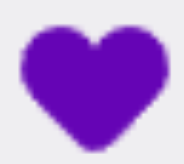
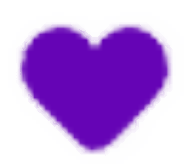
cats page html only + hagat bayza

Changed region(s): [[0.0815, 0.122, 0.9239, 0.9451]]

diff --git a/index.html b/index.html
@@ -1,137 +1,8 @@
 <!DOCTYPE html>
 <html>
+  <link rel="stylesheet" href="header.css">
     <style>
-    .right_header
-    {
-        padding-right: 0.5cm;
-    }
-    .left_header_adopt
-    {
-    color: #6504b5;
-    font-size: large;
-   display: inline;
-    }
-    /* styling search bar */
-    .search input[type=text]{
-    width: 100%;
-    height: 50px;
-    border-radius: 25px;
-    border: 2px solid #6504b5;
-    }
-    .search{
-        background-color:#6504b5;
-        background-image: url("https://www.petfinder.com/sites/default/files/styles/hero_image_667_235/public/images/content/667%20hero_0.jpg?itok=mwPI7hr1");
-        background-size: 100%;
-        border: none;
-        background-repeat: no-repeat;
-        padding: 7%;
-    }
-    .butt {
-        background-image: url("search-icon.png");
-        background-size: cover;
-        height:50px;
-        width:50px;   
-     }
-    .btn {
-        border: none;
-        background-repeat: no-repeat;
-        display: inline-block;
-        padding: 12px 16px;
-        position: absolute;
-        right: 30px;
-        cursor: pointer;
-      }
-      .btn .heart
-      {
-        display: inline;
-        position: absolute;
-        left: 110px;
-      }
-        .heart
-    {
-        display: inline;
-        border: none;
-        content: 300px;
-        padding: 0px 22px;
-        top:24px;
-        cursor: pointer;
-    }
-    .dropbtn {
-        background-image: url("menu-bar.png");
-        height: 27px;
-        width: 27px;
-        border: none;
-      }
       
-      
-    .dropdown {
-        position: relative;
-        display: inline-block;
-        top:15px;
-        right:16px;
-      }
-      .dropdown-content {
-        display: none;
-        position: absolute;
-        background-color: #f1f1f1;
-        min-width: 160px;
-        box-shadow: 0px 8px 16px 0px rgba(0,0,0,0.2);
-        z-index: 1;
-        margin:0px ;
-        right: 0px;
-        top: 40px;
-      }
-      
-      .dropdown-content a {
-        color: black;
-        padding: 12px 16px;
-        display: flex;
-        flex: column;
-        justify-items: end;
-      }
-      
-      .dropdown-content a:hover {background-color: #ddd;}
-      
-      .dropdown:hover .dropdown-content {display: block;}
-      
-      .dropdown:hover .dropbtn {background-color: #3e8e41;}
-      
-      .btn .dropdown{
-        background-image: url("menu-bar.png");
-        height: 27px;
-        width: 27px;
-        border: none;
-        left: 10px;
-        bottom: 0px;
-        top: 8px;
-        z-index: 1;
-      }
-      .btn-content {
-        display: none;
-        position: absolute;
-        background-color: #f9f9f9;
-        min-width: 160px;
-        box-shadow: 0px 8px 16px 0px rgba(0,0,0,0.2);
-        z-index: 1;
-        margin:0px ;
-        right: 0px;
-        top: 40px;
-      }
-      .btn-content a {
-        float: none;
-        color: black;
-        padding: 12px 20px;
-        text-decoration: none;
-        display: flex;
-        flex: column;
-        justify-items: end;
-      }
-      .btn:hover .btn-content {
-        display: block;
-      }
-      .btn-content a:hover{
-        background-color: aqua;
-      }
      .buttons
      {
         margin: 3em;
@@ -208,20 +79,11 @@
       .footer-nav p {
           text-align: center;
       }
-      .header
-      {
-        padding: 5px; 
-        width:100% ;
-         height:100%;
-         background-color:#efeef1; 
-        display: flex;
-         flex-direction: row;
-         justify-content: space-between;
-         align-items:space-between;
-      }
+     
     </style>
     <body>
-        <header class="header">
+        <header class="header" style="
+        background-color:#efeef1; ">
             <p class="left_header_adopt"> &nbsp &nbsp &nbsp Adopt</p>
            <button class="btn heart">
                 <a href="favourites.php"><img src="heart.png"></a>
@@ -235,18 +97,6 @@
                 </div>
             </div>
         </header>
-            <!--<div class="adj_header">
-                <button class="heart">
-            <img src="heart1.png"  width="42" height="40">
-                </button><!-- <img src="menu-bar.png" width="27" height="23">
-           <button class="adj_header dropbtn ">
-              </button>
-              <div class="adj_header-content">
-                <a href="#">My Animals</a>
-                <a href="#">Account</a>
-                <a href="#">Social Media</a>
-            </div>
-        </div>-->
         <!-- https://www.w3schools.com/howto/tryit.asp?filename=tryhow_js_topnav-->
         <div class="search">
             <center>

diff --git a/main.css b/main.css
@@ -1,0 +1,138 @@
+.header
+{
+  padding: 3px; 
+  width:100% ;
+   height:100%;
+  display: flex;
+   flex-direction: row;
+   justify-content: space-between;
+   align-items:space-between;
+   font-size: large;
+}
+.right_header
+{
+    padding-right: 0.5cm;
+}
+.left_header_adopt
+{
+    
+font-family:ink free;
+color: #6504b5;
+font-size: larger;
+display: inline;
+font-weight:bold;
+}
+/* styling search bar */
+.search input[type=text]{
+width: 100%;
+height: 50px;
+border-radius: 25px;
+border: 2px solid #6504b5;
+}
+.search{
+    background-color:#6504b5;
+    background-image: url("https://www.petfinder.com/sites/default/files/styles/hero_image_667_235/public/images/content/667%20hero_0.jpg?itok=mwPI7hr1");
+    background-size: 100%;
+    border: none;
+    background-repeat: no-repeat;
+    padding: 7%;
+}
+.butt {
+    background-image: url("search-icon.png");
+    background-size: cover;
+    height:50px;
+    width:50px;   
+ }
+.btn {
+    border: none;
+    background-repeat: no-repeat;
+    display: inline-block;
+    padding: 12px 16px;
+    position: absolute;
+    right: 30px;
+    cursor: pointer;
+  }
+  .btn .heart
+  {
+    display: inline;
+    position: absolute;
+    left: 110px;
+  }
+    .heart
+{
+    display: inline;
+    border: none;
+    content: 300px;
+    padding: 0px 22px;
+    top:27px;
+    cursor: pointer;
+}
+.dropbtn {
+    background-image: url("menu-bar.png");
+    height: 27px;
+    width: 27px;
+    border: none;
+  }
+  
+  
+.dropdown {
+    position: relative;
+    display: inline-block;
+    top:20px;
+    right:16px;
+  }
+  .dropdown-content {
+    display: none;
+    position: absolute;
+    background-color: #f1f1f1;
+    min-width: 160px;
+    box-shadow: 0px 8px 16px 0px rgba(0,0,0,0.2);
+    margin:0px ;
+    right: 0px;
+    top: 40px;
+    z-index: 1000;
+  }
+  
+  .dropdown-content a {
+    color: black;
+    padding: 12px 16px;
+    display: flex;
+    flex: column;
+    justify-items: end;
+    
+  }
+  
+  .dropdown-content a:hover {background-color: #ddd;}
+  
+  .dropdown:hover .dropdown-content {display: block;}
+  
+  .dropdown:hover .dropbtn {background-color: #3e8e41;}
+  .site-footer {
+    background-color: #6504b5;
+      text-align: center;
+      margin: 10px 0;
+  }
+  
+  /*Social Media Icons*/
+  .social-wrapper {
+      text-align: center;
+  }
+  
+  .social-wrapper ul li {
+      display: inline;
+      margin: 0 5px;
+      padding: 10px; /*spacing between icons*/
+  }
+  
+  .twitter-icon,
+  .facebook-icon,
+  .instagram-icon,
+  .youtube-icon{
+      margin-top: .625em;
+      width: 40px;
+      height: 40px; /* For IE8 and earlier */
+    border-radius: 25px;
+  }
+  .footer-nav p {
+      text-align: center;
+  }

diff --git a/cats.html b/cats.html
@@ -1,0 +1,75 @@
+<!DOCTYPE html>
+<html>
+<link rel="stylesheet" href="main.css">
+<style>
+    .wrapper
+    {  
+    display: grid;
+    grid-template-columns: 1fr 1fr;
+    grid-auto-columns: 1px;
+    border: none;
+    width: min(95%,70cm);
+    margin-inline: auto;
+    gap: 2em;
+    }
+    .button
+    {
+        height: 19em;
+        width: 17em;
+        border-radius: 2em;
+        overflow: hidden;
+    }
+    .button .img{
+        height: 70%;
+        width: auto;
+        display: block;
+        position:relative;
+        left: 5%;
+    }
+    .button:hover{
+        background-color: rgb(144, 138, 144);
+    }
+</style>
+<body>
+    <header class="header" style="background-color: white;">
+        <p class="left_header_adopt"> &nbsp &nbsp &nbsp Adopt</p>
+       <button class="btn heart">
+            <a href="favourites.php"><img src="heart1.png" height="35px" width="35px"></a>
+       </button> 
+       <div class="dropdown"> <button class="dropbtn">
+        </button>
+        <div class="dropdown-content">
+            <a href="Uploads_Bought.php">My Animals</a>
+            <a href="Account.php">Account</a>
+            <a href="Setting.php">Setting</a>
+            </div>
+        </div>
+    </header>
+    <center>
+        <div style="background-color: #efeef1;height: 100vh;">
+        <ul  class="wrapper">
+             <button class="button"><img src="tyler.jpg" class="button img"><p> Up for adoption</p></button>
+             <button class="button"><img src="tyler.jpg" class="button img"><p> Up for adoption</p></button>
+        </ul>
+    </div>
+</body>
+<footer id="colophon" class="site-footer">
+    <div class="social-wrapper">
+      <ul>
+        <li>
+          <a href="#" target="_blank">
+            <img src="https://www.mchenryvillage.com/images/instagram-icon.png" alt="Instagram Logo" class="instagram-icon"></a>
+        </li>
+        <li>
+          <a href="#" target="_blank">
+            <img src="http://www.iconarchive.com/download/i54037/danleech/simple/facebook.ico" alt="Facebook Logo" class="facebook-icon"></a>
+        </li>
+        <li>
+          <a href="#" target="_blank">
+            <img src="https://lh3.googleusercontent.com/j_RwVcM9d47aBDW5DS1VkdxUYCkDUCB6wZglv4x-9SmsxO0VaFs7Csh-FmKRCWz9r_Ef=w170" alt="Youtube Logo" class="youtube-icon"></a>
+        </li>
+      </ul>
+    </div>
+</center>
+  </footer>
+</html>
